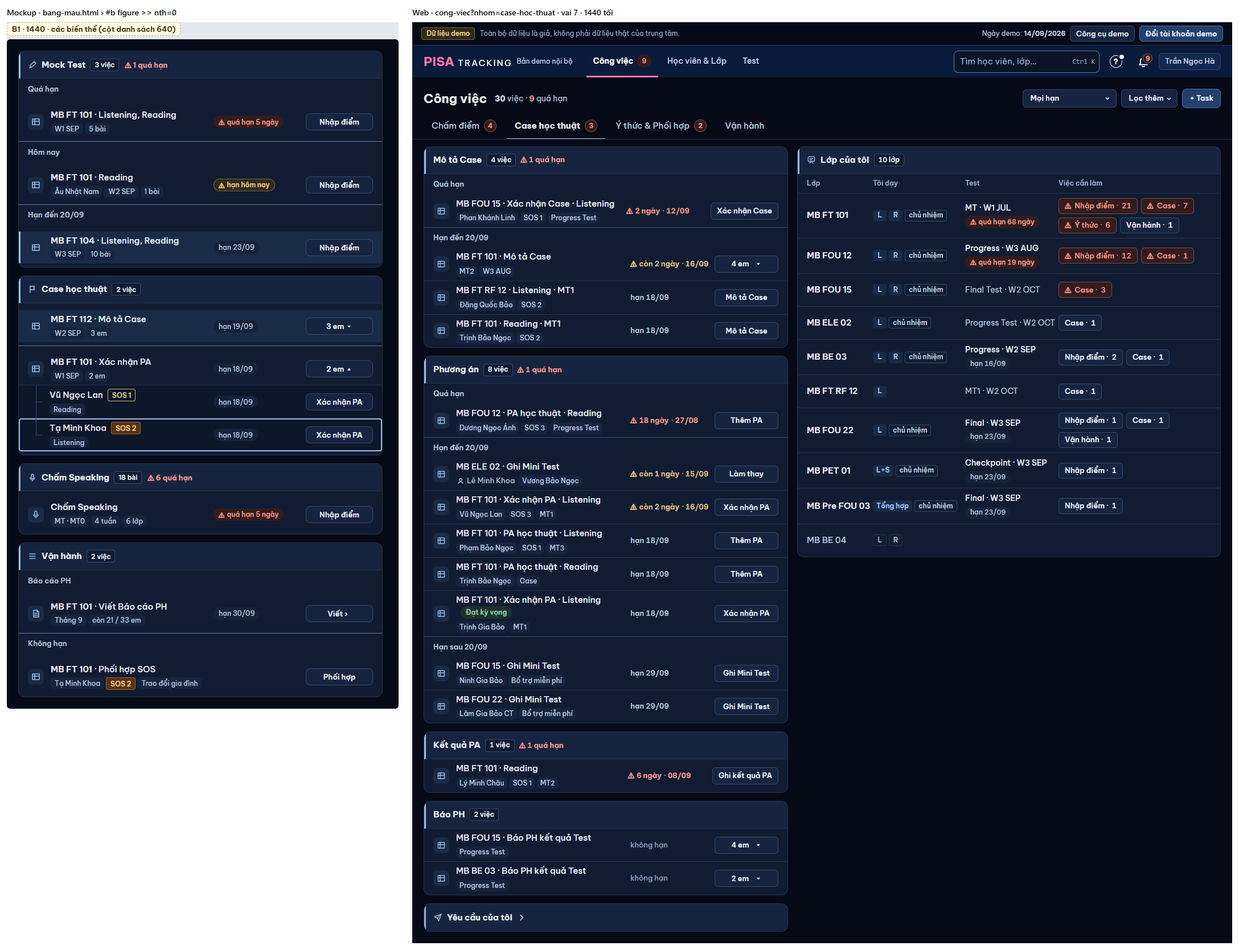
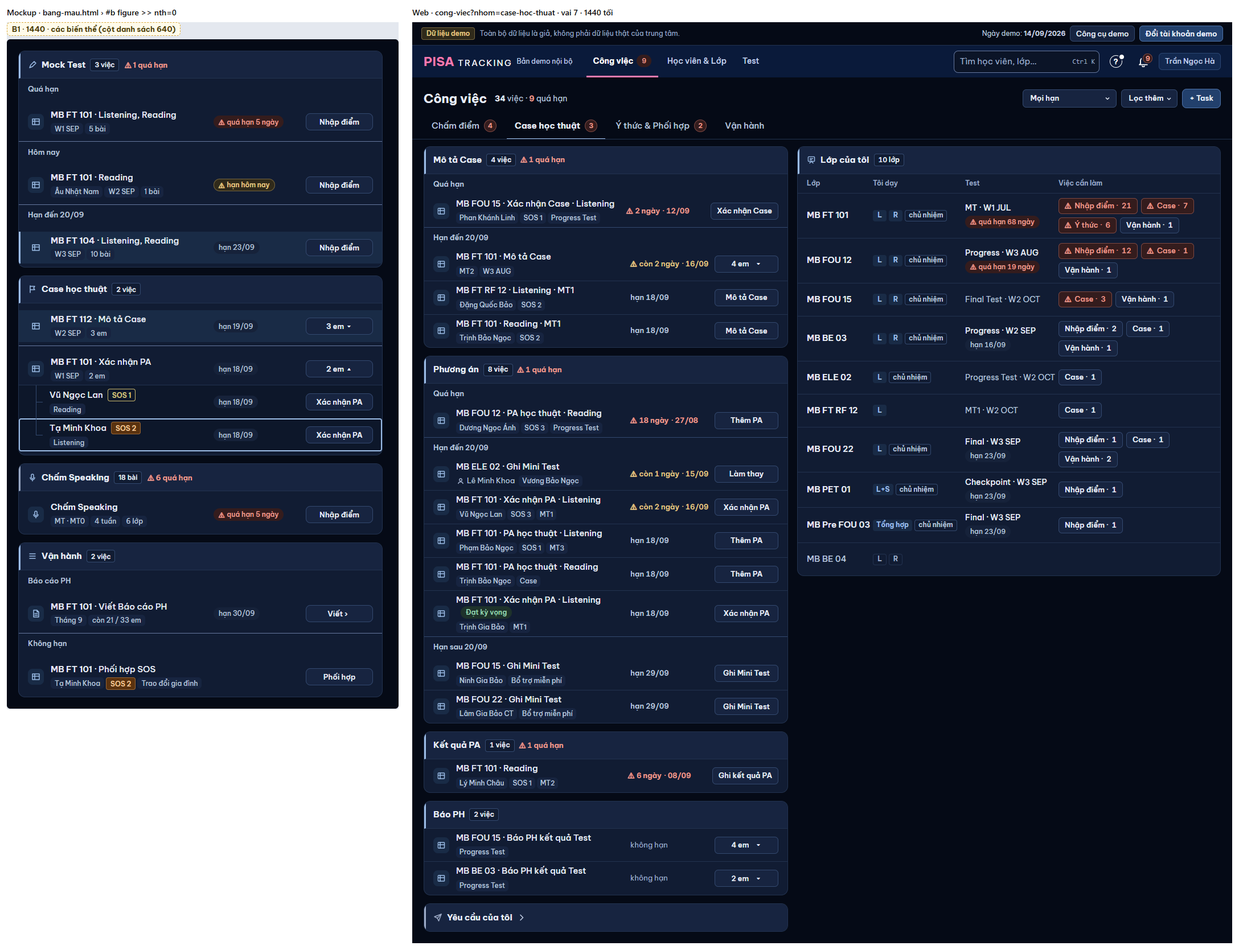
GD-4a: menu + Task có biểu tượng + neo đáy 375, chọn em nhóm theo lớp + tô khớp; khop-khac đủ a/b/d/f; ảnh cặp chụp lại

Changed region(s): [[0.625, 0.2493, 1.0, 0.6231]]

diff --git a/web/src/modules/congViec/NutTask.tsx b/web/src/modules/congViec/NutTask.tsx
@@ -7,12 +7,17 @@ import { useNgayNghiepVu } from '../../ui/ngayNghiepVu.ts';
 import { QuickReport } from '../cases/QuickReport.tsx';
 import { RecordViolationPanel } from '../yThuc/RecordViolationPanel.tsx';
 import { HopTinhHinh } from '../yThuc/TinhHinh.tsx';
+import { ToKhop } from '../../ui/ToKhop.tsx';
+import { IconNhom } from './DanhSachViec.tsx';
 import { t } from '@shared/i18n/index.ts';
 
-type Em = { id: number; ten: string; lopId: number; lop: string; tvv: string | null };
+export type EmTask = { id: number; ten: string; lopId: number; lop: string; tvv: string | null };
+type Em = EmTask;
 type Loai = 'case' | 'vi-pham' | 'tinh-hinh';
 /** Chủ SP 14/11 (lời 17): tên nút "+ Task", thứ tự Case · Vi phạm / Nhắc nhở · Tình hình học tập. */
 const MUC: [Loai, string][] = [['case', t('Case')], ['vi-pham', t('Vi phạm / Nhắc nhở')], ['tinh-hinh', t('Tình hình học tập')]];
+/** GD-4a (mockup ⑤ F1, [XM-7]): menu giữ biểu tượng mục — cờ Case · khiên Ý thức · bóng lời Tình hình. */
+const IC: Record<Loai, string> = { case: 'case-hoc-thuat', 'vi-pham': 'y-thuc', 'tinh-hinh': 'tinh-hinh' };
 const TOI_DA_TINH_HINH = 8;
 
 /**
@@ -20,8 +25,10 @@ const TOI_DA_TINH_HINH = 8;
  * lớp bên cạnh tên; Tình hình học tập chọn nhiều ≤ 8) → ĐÚNG form đang có (QuickReport · RecordViolationPanel · hộp Báo tình hình) — cùng quyền, cùng luật.
  * Tìm em: `/tim/hoc-vien` (một câu mỗi lần gõ, ≥ 2 ký tự, chờ 250 ms). Nút cũ ở hồ sơ lớp / HV giữ nguyên.
  * `noi`: nút ở đầu trang (máy rộng) hoặc nút tròn nổi trên thanh tab dưới (< 640 px, K8a).
+ * GD-4a (mockup ⑤ F): MỘT nút cho trang đầu, hồ sơ lớp, hồ sơ HV — `lopId`: mở từ hồ sơ lớp, nhóm "Lớp này" lên đầu; `em`: hồ sơ HV điền sẵn em → bỏ bước chọn.
+ * < 640 px menu neo đáy (F4).
  */
-export function NutTask({ noi }: { noi: 'dau' | 'noi' }) {
+export function NutTask({ noi, lopId, em: emSan }: { noi: 'dau' | 'noi'; lopId?: number; em?: EmTask }) {
   const neo = useRef<HTMLSpanElement>(null);
   const [loai, setLoai] = useState<Loai | null>(null);
   const [em, setEm] = useState<Em[] | null>(null);
@@ -34,11 +41,11 @@ export function NutTask({ noi }: { noi: 'dau' | 'noi' }) {
   return (
     <>
       <span ref={neo} className={noi === 'noi' ? 'fixed bottom-[80px] right-4 z-[35] sm:hidden' : 'max-sm:hidden'}>
-        <MenuDong nhan={t('Task: Case, vi phạm / nhắc nhở, tình hình học tập')} mat={mat}
+        <MenuDong nhan={t('Task: Case, vi phạm / nhắc nhở, tình hình học tập')} mat={mat} tieuDeDay={t('+ Task')}
           lopNut={noi === 'dau' ? 'btn btn-primary !p-0' : 'btn btn-primary !rounded-full !p-0 shadow-lg'}
-          muc={MUC.map(([k, nhan]) => ({ key: k, nhan, onChon: () => { setEm(null); setLoai(k); } }))} />
+          muc={MUC.map(([k, nhan]) => ({ key: k, nhan, bieuTuong: <IconNhom k={IC[k]} />, onChon: () => { setEm(emSan ? [emSan] : null); setLoai(k); } }))} />
       </span>
-      {loai && !em && <HopChonEm neo={neo} loai={loai} onDong={dong} onChon={setEm} />}
+      {loai && !em && <HopChonEm neo={neo} loai={loai} lopId={lopId} onDong={dong} onChon={setEm} />}
       {loai === 'case' && em?.[0] && <QuickReport open onClose={dong} studentId={em[0].id} studentName={em[0].ten} lop={em[0].lop} onDone={xong} />}
       {loai === 'vi-pham' && em?.[0] && <RecordViolationPanel open onClose={dong} studentId={em[0].id} studentName={em[0].ten} lop={em[0].lop} onDone={xong} />}
       {loai === 'tinh-hinh' && em?.length && (
@@ -48,11 +55,17 @@ export function NutTask({ noi }: { noi: 'dau' | 'noi' }) {
   );
 }
 
-function HopChonEm({ neo, loai, onDong, onChon }: {
-  neo: React.RefObject<HTMLElement | null>; loai: Loai; onDong: () => void; onChon: (em: Em[]) => void;
+/**
+ * GD-4a (mockup ⑤ F2, F3): kết quả nhóm theo lớp, có nhãn + số — "Lớp này" (mở từ hồ sơ lớp) → từng lớp của tôi ("· chủ nhiệm") → "Lớp khác"; tô chữ khớp.
+ * ponytail: ô tìm riêng của "+ Task" — GD-5 thay bằng ô chọn có tìm chung (mẫu ⑤ A) khi nâng `ChonNguoi`.
+ */
+function HopChonEm({ neo, loai, lopId, onDong, onChon }: {
+  neo: React.RefObject<HTMLElement | null>; loai: Loai; lopId?: number; onDong: () => void; onChon: (em: Em[]) => void;
 }) {
   const { session } = useSession();
-  const lopToi = new Set((session?.assignments ?? []).map((a) => a.classId));
+  const pc = session?.assignments ?? [];
+  const lopToi = new Set(pc.map((a) => a.classId));
+  const chuNhiem = new Set(pc.filter((a) => a.isCore).map((a) => a.classId));
   const nhieu = loai === 'tinh-hinh';
   const [chu, setChu] = useState('');
   const [kq, setKq] = useState<Em[]>([]);
@@ -75,7 +88,13 @@ function HopChonEm({ neo, loai, onDong, onChon }: {
     }, 250);
     return () => clearTimeout(h);
   }, [chu]);   // eslint-disable-line react-hooks/exhaustive-deps
-  const ds = kq.filter((e) => !chon.some((c) => c.id === e.id));
+  const conLai = kq.filter((e) => !chon.some((c) => c.id === e.id));
+  /* Thứ tự nhóm: lớp này → lớp của tôi (theo mã) → lớp khác; `ds` phẳng theo đúng thứ tự vẽ để ↑ ↓ đi khớp. */
+  const hang = (e: Em) => (e.lopId === lopId ? 0 : lopToi.has(e.lopId) ? 1 : 2);
+  const ds = [...conLai].sort((a, b) => hang(a) - hang(b) || (hang(a) === 1 ? a.lop.localeCompare(b.lop) : 0));
+  const tenNhom = (e: Em) => (hang(e) === 0 ? `${t('Lớp này')} · ${e.lop}` : hang(e) === 1 ? (chuNhiem.has(e.lopId) ? `${e.lop} · ${t('chủ nhiệm')}` : e.lop) : t('Lớp khác'));
+  const nhom = new Map<string, number>();
+  for (const e of ds) nhom.set(tenNhom(e), (nhom.get(tenNhom(e)) ?? 0) + 1);
   const lay = (e: Em) => {
     if (!nhieu) { onChon([e]); return; }
     if (chon.length < TOI_DA_TINH_HINH) setChon((c) => [...c, e]);
@@ -109,13 +128,20 @@ function HopChonEm({ neo, loai, onDong, onChon }: {
         }} />
       {ds.length > 0 && (
         <ul id="tim-em-task" role="listbox" aria-label={t('Học viên')} className="m-0 grid max-h-[288px] list-none overflow-y-auto p-0">
-          {ds.map((e, i) => (
+          {ds.map((e, i) => [
+            (i === 0 || tenNhom(ds[i - 1]) !== tenNhom(e)) && (
+              <li key={`n:${tenNhom(e)}`} role="presentation" className="sticky top-0 flex items-baseline gap-2 bg-[color:var(--surface)] px-2.5 pb-0.5 pt-2 text-xs font-semibold text-faint">
+                {tenNhom(e)} <span className="font-medium tabular-nums">{nhom.get(tenNhom(e))}</span>
+              </li>
+            ),
             <li key={e.id} id={`tim-em-${e.id}`} role="option" aria-selected={i === dang}
-              className={`flex min-h-[40px] cursor-pointer items-center justify-between gap-3 rounded-md px-2.5 text-[15px] max-sm:min-h-[44px] ${i === dang ? 'bg-[color:var(--accent-soft)]' : ''}`}
+              className={`grid min-h-11 cursor-pointer content-center rounded-md px-2.5 py-1 ${i === dang ? 'bg-[color:var(--accent-soft)]' : ''}`}
               onMouseEnter={() => setDang(i)} onMouseDown={(ev) => ev.preventDefault()} onClick={() => lay(e)}>
-              <span className="min-w-0 text-[color:var(--text)]">{e.ten}</span><small className="shrink-0 text-xs text-faint">{e.lop}</small>
-            </li>
-          ))}
+              {/* Mockup ⑤ `.oc-muc`: tên 14 / 500 (chữ khớp đậm màu nhấn), lớp dòng phụ 12 mờ. */}
+              <span className="min-w-0 truncate text-sm font-medium leading-snug text-[color:var(--text)] [&_mark]:rounded-none [&_mark]:bg-transparent [&_mark]:p-0 [&_mark]:font-bold [&_mark]:text-[color:var(--accent)]"><ToKhop chu={e.ten} q={chu} /></span>
+              <small className="text-xs text-faint">{e.lop}</small>
+            </li>,
+          ])}
         </ul>
       )}
       {chu.trim().length >= 2 && !ds.length && !loi && <p role="status" className="m-0 text-[13px] text-dim">{t('Không thấy em nào khớp.')}</p>}

diff --git a/web/src/ui/MenuDong.tsx b/web/src/ui/MenuDong.tsx
@@ -26,6 +26,8 @@ export type MucMenu = {
   tieuDe?: boolean;
   /** Ô tick (☑ / ☐): bấm là đổi, menu GIỮ MỞ để tick tiếp (PR-HK2: "Cột hiện" của Tổng hợp). */
   chon?: boolean;
+  /** GD-4a (mockup ⑤ F1, [XM-7]): biểu tượng 16 px màu nhấn trước chữ (menu "+ Task") — nút-chip thì không có biểu tượng (lời 20). */
+  bieuTuong?: ReactNode;
 };
 
 /**
@@ -39,7 +41,7 @@ export type MucMenu = {
  * Bàn phím (E2): mở → focus mục đầu; ↑/↓/Home/End đi vòng; Enter chọn; Esc/Tab đóng và trả focus về nút ⋯. Esc chỉ đóng menu,
  * không đóng panel chứa nó (pha bắt + chặn lan, như `LichNho`).
  */
-export function MenuDong({ muc, nhan = t('Thao tác khác'), bieuTuong = '⋯', luonHien = false, kieu, mat, lopNut, canhTrai = false }: {
+export function MenuDong({ muc, nhan = t('Thao tác khác'), bieuTuong = '⋯', luonHien = false, kieu, mat, lopNut, canhTrai = false, tieuDeDay }: {
   /** `bieuTuong`: ⋯ · ⋮, hoặc chữ ngắn như "+2" (badge còn ẩn của hộp lớp — PR-HVL B4). `luonHien`: vẽ nút kể cả khi không có mục / mọi mục `tat`. */
   muc: MucMenu[]; nhan?: string; bieuTuong?: string; luonHien?: boolean;
   /** `chip`: mặt nút là chip họ tròn xám ("+2" cạnh các badge lớp, PR-HK2) thay cho ô vuông viền. */
@@ -48,11 +50,13 @@ export function MenuDong({ muc, nhan = t('Thao tác khác'), bieuTuong = '⋯', 
   mat?: ReactNode; lopNut?: string;
   /** GD-3 (mockup v21 K2b): nút ⋯ ở mép TRÁI hàng nút — menu canh mép trái nút, không chìa ra ngoài hộp. */
   canhTrai?: boolean;
+  /** GD-4a (mockup ⑤ F4): < 640 px menu NEO ĐÁY màn (tấm dưới có tiêu đề này, nền mờ phía sau, mục cao 48) thay vì thả cạnh nút. */
+  tieuDeDay?: string;
 }) {
   const [mo, setMo] = useState(false);
   const nut = useRef<HTMLButtonElement>(null);
   const hop = useRef<HTMLDivElement>(null);
-  const [viTri, setViTri] = useState<{ top: number; left: number; cao: number } | null>(null);
+  const [viTri, setViTri] = useState<{ top: number; left: number; cao: number; day?: boolean } | null>(null);
   const [dang, setDang] = useState(0);
   const mucDom = () => [...(hop.current?.querySelectorAll<HTMLElement>('[role^="menuitem"]') ?? [])];
   const bam = muc.filter((m) => !m.tieuDe);   // vòng ↑/↓ chỉ qua mục bấm được; `chiSo` = vị trí trong vòng đó
@@ -62,6 +66,7 @@ export function MenuDong({ muc, nhan = t('Thao tác khác'), bieuTuong = '⋯', 
 
   useLayoutEffect(() => {
     if (!mo || !nut.current) { setViTri(null); return; }
+    if (tieuDeDay && window.innerWidth < 640) { setViTri({ top: 0, left: 0, cao: window.innerHeight - 80, day: true }); return; }
     const r = nut.current.getBoundingClientRect();
     const rong = 216;
     /* Mục cao 44px trên điện thoại (ô bấm), ~36px từ sm. */
@@ -116,15 +121,20 @@ export function MenuDong({ muc, nhan = t('Thao tác khác'), bieuTuong = '⋯', 
         style={kieu === 'chip' || lopNut ? undefined : { borderColor: 'var(--line)' }}>
         {mat ?? bieuTuong}
       </button>
-      {mo && createPortal(
+      {mo && createPortal(<>
+        {viTri?.day && <div aria-hidden className="fixed inset-0 z-[59] bg-black/50" />}
         <div ref={hop} role="menu" aria-label={nhan}
           onKeyDown={(e) => {
             const k = buocDanhSach(bam.length, dang, e.key);
             if (k !== null) { e.preventDefault(); tro(k); }
             else if (e.key === 'Tab') { e.preventDefault(); dongVeNut(); }
           }}
-          className="menu-hop fixed z-[60] w-[216px] overflow-y-auto overscroll-contain rounded-lg border p-1 shadow-xl surface-2"
-          style={{ borderColor: 'var(--line-strong)', top: viTri?.top ?? 0, left: viTri?.left ?? 0, maxHeight: viTri?.cao, visibility: viTri ? 'visible' : 'hidden' }}>
+          className={viTri?.day
+            ? 'menu-hop fixed inset-x-0 bottom-0 z-[60] overflow-y-auto overscroll-contain rounded-t-[14px] border-t px-2 pb-[18px] pt-2 shadow-xl [&_.menu-muc]:min-h-12'
+            : 'menu-hop fixed z-[60] w-[216px] overflow-y-auto overscroll-contain rounded-lg border p-1 shadow-xl surface-2'}
+          style={viTri?.day ? { borderColor: 'var(--line-strong)', maxHeight: viTri.cao }
+            : { borderColor: 'var(--line-strong)', top: viTri?.top ?? 0, left: viTri?.left ?? 0, maxHeight: viTri?.cao, visibility: viTri ? 'visible' : 'hidden' }}>
+          {viTri?.day && <div role="presentation" className="px-3 pb-1.5 pt-2 text-[15px] font-bold">{tieuDeDay}</div>}
           {muc.map((m, i) => m.tieuDe ? (
             <div key={m.key} role="presentation" className="menu-nhom">{m.nhan}</div>
           ) : (
@@ -135,11 +145,12 @@ export function MenuDong({ muc, nhan = t('Thao tác khác'), bieuTuong = '⋯', 
               className={`menu-muc ${m.tat ? 'text-slate-500 cursor-not-allowed' : `${m.nguyHiem ? 'text-rose-200' : 'text-slate-200'} bam`} ${
                 i === 0 || muc[i - 1]?.tieuDe ? '' : m.nguyHiem && !muc[i - 1]?.nguyHiem ? 'menu-muc-nguy' : m.keTruoc ? 'menu-muc-ke' : ''}`}
               onClick={(e) => { if (m.tat) { e.stopPropagation(); return; } if (m.chon === undefined) dongVeNut(); m.onChon(); }}>
-              {m.chon !== undefined && <span aria-hidden>{m.chon ? '☑' : '☐'} </span>}{m.nhan}
+              {m.chon !== undefined && <span aria-hidden>{m.chon ? '☑' : '☐'} </span>}
+              {m.bieuTuong ? <span className="flex items-center gap-2.5"><span aria-hidden className="text-[color:var(--accent)]">{m.bieuTuong}</span>{m.nhan}</span> : m.nhan}
             </button>
           ))}
-        </div>,
-        document.body,
+        </div>
+      </>, document.body,
       )}
     </>
   );

diff --git a/shared/huongDan/gv.ts b/shared/huongDan/gv.ts
@@ -255,7 +255,7 @@ export const HD_GV: HuongDan = {
           chi: { hd: 'cv-loc-them', duong: CV, chu: 'Lọc việc ở hàng này.' } },
         { id: 'cv-lop', ten: 'Lớp của tôi', buoc: ['Khung phải khi chưa chọn việc (điện thoại: nút <b>Lớp của tôi</b>): mỗi lớp một dòng — bạn dạy gì, Test, <b>Việc cần làm</b>.', 'Bấm một nút việc (Nhập điểm, Case, Ý thức, Vận hành) mở đúng việc đó; bấm tên lớp mở hồ sơ lớp.'],
           chi: { hd: 'cv-lop-cua-toi', duong: CV, chu: 'Bấm nút việc của một lớp để làm ngay.' } },
-        { id: 'cv-task', ten: '+ Task', buoc: ['Nút <b>+ Task</b> đầu trang: <b>Case</b> · <b>Vi phạm / Nhắc nhở</b> · <b>Tình hình học tập</b>.', 'Gõ tên em (em lớp của bạn lên trước), rồi điền form như ở hồ sơ lớp.'] },
+        { id: 'cv-task', ten: '+ Task', buoc: ['Nút <b>+ Task</b> đầu trang: <b>Case</b> · <b>Vi phạm / Nhắc nhở</b> · <b>Tình hình học tập</b>.', 'Gõ tên em: kết quả nhóm theo từng lớp của bạn (lớp chủ nhiệm ghi rõ), rồi điền form như ở hồ sơ lớp. Trên điện thoại: nút tròn <b>+ Task</b>, menu mở ở đáy màn.'] },
       ],
     },
     {

diff --git a/shared/i18n/en/gd1.ts b/shared/i18n/en/gd1.ts
@@ -20,5 +20,5 @@ export const EN_GD1 = {
   'Bấm nút việc của một lớp để làm ngay.': 'Tap a class task button to do it now.',
   'Nút <b>+ Task</b> đầu trang: <b>Case</b> · <b>Vi phạm / Nhắc nhở</b> · <b>Tình hình học tập</b>.':
     'The <b>+ Task</b> button at the top: <b>Case</b> · <b>Violation / Reminder</b> · <b>Learning update</b>.',
-  'Gõ tên em (em lớp của bạn lên trước), rồi điền form như ở hồ sơ lớp.': 'Type the student name (your classes first), then fill the same form as on the class profile.',
+  'Gõ tên em: kết quả nhóm theo từng lớp của bạn (lớp chủ nhiệm ghi rõ), rồi điền form như ở hồ sơ lớp. Trên điện thoại: nút tròn <b>+ Task</b>, menu mở ở đáy màn.': 'Type the student name: results are grouped by each of your classes (homeroom marked), then fill the same form as on the class profile. On a phone: the round <b>+ Task</b> button, the menu opens at the bottom of the screen.',
 };

diff --git a/web/src/modules/congViec/DanhSachViec.tsx b/web/src/modules/congViec/DanhSachViec.tsx
@@ -55,6 +55,8 @@ const DUONG_IC: Record<string, ReactNode> = {
   'sau-thi': <><rect x="2.5" y="3.5" width="11" height="10" rx="1.5" /><path d="M2.5 6.5h11M5.5 2v3M10.5 2v3" /></>,
   'chot-ngay-thi': <><rect x="2.5" y="3.5" width="11" height="10" rx="1.5" /><path d="M2.5 6.5h11M5.5 2v3M10.5 2v3" /></>,
   'bo-sung': <><path d="M4 2.5h5l3 3v8H4z" /><path d="M9 2.5v3h3" /></>,
+  /* GD-4a (mockup ⑤ F1 `i-bao`): Tình hình học tập — bóng lời. */
+  'tinh-hinh': <path d="M2.5 3.5h11v7h-6l-3 2.5v-2.5h-2z" />,
   duyet: <><circle cx="8" cy="8" r="5.5" /><path d="M5.6 8.2l1.7 1.7 3.2-3.4" /></>,
   /* BO-QUA-XEP-MT: "Đã bỏ qua" — mắt gạch. */
   'bo-qua': <><path d="M2 8s2.2-4 6-4 6 4 6 4-2.2 4-6 4-6-4-6-4z" /><circle cx="8" cy="8" r="1.8" /><path d="M3 13L13 3" /></>,

diff --git a/docs/anh/gd4a-thanh-phan/khop-khac.md b/docs/anh/gd4a-thanh-phan/khop-khac.md
@@ -1,43 +1,72 @@
-# GD-4a — Thành phần chung (phần 1): dòng việc ô vuông + vạch hạn · nút "Không cần theo dõi" / "Xác nhận xử lý" · thang WL nổi
+# GD-4a — Thành phần chung: dòng việc (ô vuông + vạch hạn) · nút-chip · menu "+ Task" + chọn em · nút Ý thức · thang WL nổi
 
-Plan: `docs/superpowers/specs/2026-11-13-overhaul-v6/09-plan-giao-dien-dot-2.md` dòng GD-4 (a), (b), (f). Mockup ⑤ `thiet-ke/v21/bang-mau.html` khu B, C (đã duyệt, lời 27) · mockup ③ `ho-so-hv.html` K4a (thang, nút — lời 28).
-PTA Plan đồng ý / chờ đồng ý chia GD-4: **4a** (PR này) · **4b** 83 câu dòng quy chế (sau GD-3 #1563) · **4c** H1–H4 một dáng tab / menu / dải chỉ số / lịch sử. (d) bước chọn em = ô chọn có tìm thuộc GD-5.
+Plan: `docs/superpowers/specs/2026-11-13-overhaul-v6/09-plan-giao-dien-dot-2.md` dòng GD-4, ý **(a) (b) (d) (f)**. Ý (c) 83 câu dòng quy chế = GD-4b; ý (e) một dáng tab / menu / dải / lịch sử = GD-4c.
+Mockup ⑤ `thiet-ke/v21/bang-mau.html` khu B, C, F (lời 27 duyệt) · mockup ③ `ho-so-hv.html` K4a (lời 28). Thứ tự thắng: lời 24, 28 → `04-thiet-ke.md` 12–14 → ⑤ → ③.
 
-Ảnh cặp (trái mockup · phải web, demo 14/09, GVCN Trần Ngọc Hà — vai 7):
-`cap-1440-case.png` (⑤ B1 ↔ Công việc › Case học thuật) · `cap-1440-y-thuc-hv.png` (③ K4a ↔ hồ sơ HV Vũ Hải Đăng › Ý thức, thang mở).
+Ảnh cặp (trái mockup · phải web; seed demo 14/09, vai 7 GVCN; 1440 tối, 375 sáng; phông Be Vietnam Pro đã nạp — `document.fonts.check` = true):
+
+| Ảnh | Mockup | Web |
+|---|---|---|
+| `cap-1440-case.png` | ⑤ B1 | Công việc › Case học thuật |
+| `cap-375-cong-viec.png` | ⑤ B2 | Công việc 375 |
+| `cap-1440-task-menu.png` | ⑤ F1 | Công việc, menu "+ Task" mở |
+| `cap-1440-task-chon-em.png` | ⑤ F2 | "+ Task" › Vi phạm / Nhắc nhở, gõ "tran" |
+| `cap-375-task-menu.png` | ⑤ F4 | Công việc 375, nút tròn "+ Task" → menu neo đáy |
+| `cap-1440-y-thuc-hv.png` | ③ K4a | hồ sơ HV › Ý thức & Phối hợp, "Thang" mở |
+
+Chụp bằng `scripts/anh-cap.mjs` (PR này thêm: `BAM` bấm được mục menu và `gõ:chữ`; `KEO_TRUOC=1` kéo dài khung nhìn trước khi bấm — menu thả đóng khi đổi cỡ màn).
 
 ## 1. Truy vết khung → thành phần → ảnh
 
 | # | Khung | Thành phần web | Ảnh | Kết quả |
 |---|---|---|---|---|
-| 1 | ⑤ B1 ô vuông 28 px biểu tượng đầu mọi dòng việc (`.av.vuong`) | `AvViec` trong `DongViec` · `DongLop` · `DongGon` (em trong khay không có — như mockup) | cap-1440-case | KHỚP |
-| 2 | ⑤ B1 biểu tượng theo loại: lớp / gộp = ô bảng · Chấm Speaking = micro · Báo cáo PH = tờ giấy | `icDong()` | cap-1440-case | KHỚP |
-| 3 | ⑤ B1 vạch hạn trong mục: Quá hạn · Hôm nay · Hạn đến {CN} · Hạn sau {CN} · Không hạn | `DanhSachViec` — vạch chỉ khi mục có ≥ 2 nhóm hạn | cap-1440-case (Mô tả Case, Phương án) | KHỚP |
-| 4 | ⑤ B1 dòng "Lớp · tên việc", tên em thẻ phụ | đã có (#1584) | cap-1440-case | KHỚP |
-| 5 | ⑤ C nút-chip "Việc cần làm" không biểu tượng | đã có (#1566) | — | KHỚP |
-| 6 | Lời 28 ý 1: "Không cần theo dõi" là NÚT mờ | `NUT_MO` (`ui/KhuonViec.tsx`) ở `CasePanel` + `CaseSosControls` (form Xác nhận PA) | — (seed GV 7 không có Case SOS đang chờ — kiểm mã) | KHỚP (mã) |
-| 7 | Lời 28 ý 2: "Xác nhận xử lý" là NÚT | hồ sơ HV (`StudentYThucSection` ô bước + dòng vi phạm) · tab Ý thức lớp (`ClassYThucCard` ô bước + dòng) · panel Xem vi phạm (`PanelXemViPham` chân) | cap-1440-y-thuc-hv | KHỚP |
-| 8 | Lời 28 ý 3 / ③ `.vach-bac b.wl`: WL 1, WL 2 nhãn đỏ nổi trên thanh (đã tới: đỏ đặc) | thang mini hồ sơ HV (`StudentYThucSection`) | cap-1440-y-thuc-hv | KHỚP |
-| 9 | "mọi nơi hiện thang" | thang đầy đủ `ThangYThuc` (hồ sơ HV "Thang ▾", chip mốc tab lớp, panel Xử lý) — chip WL đỏ | cap-1440-y-thuc-hv (thang mở) | KHỚP |
+| 1 | ⑤ B1/B2 ô vuông 28 px biểu tượng đầu mọi dòng việc (`.av.vuong`) | `AvViec` trong `DongViec` · `DongLop` · `DongGon` (em trong khay "n em ▾" không có — như mockup) | case, 375-cong-viec | KHỚP |
+| 2 | ⑤ B1 biểu tượng theo loại: lớp / gộp / một em = ô bảng · Chấm Speaking = micro · Báo cáo PH = tờ giấy | `icDong()` | case | KHỚP |
+| 3 | ⑤ B1/B2 vạch hạn trong mục: Quá hạn · Hôm nay · Hạn đến {CN} · Hạn sau {CN} · Không hạn | `DanhSachViec` — vạch khi mục có ≥ 2 nhóm hạn | case (Mô tả Case, Phương án), 375-cong-viec | KHỚP |
+| 4 | ⑤ B1 (a) dòng "Lớp · tên việc", tên em là thẻ phụ — lời 24 | đã có (#1584), giữ một thành phần | case | KHỚP |
+| 5 | ⑤ C (b) nút-chip "Việc cần làm" không biểu tượng, thứ tự Nhập điểm · Case · Ý thức · Vận hành | đã có (#1566) `LopCuaToi` | task-menu (cột phải) | KHỚP |
+| 6 | ⑤ F1 (d) menu "+ Task" 3 mục Case · Vi phạm / Nhắc nhở · Tình hình học tập, có biểu tượng ([XM-7]) | `MenuDong` thêm `bieuTuong` mỗi mục; `NutTask` (cờ · khiên · bóng lời) | task-menu | KHỚP |
+| 7 | ⑤ F2 (d) chọn em: nhóm theo lớp có nhãn + số ("· chủ nhiệm"), tô chữ khớp, tên + lớp dòng phụ | `HopChonEm` (`NutTask.tsx`) nhóm Lớp này → lớp của tôi → Lớp khác; `ToKhop` | task-chon-em | KHỚP |
+| 8 | ⑤ F3 (d) Tình hình chọn nhiều ≤ 8, chip ✕, "n / 8", Tiếp | đã có (GD-1) — giữ | — (đã chụp ở GD-1) | KHỚP |
+| 9 | ⑤ F4 (d) 375 nút tròn → menu neo đáy, tiêu đề "+ Task", mục cao 48, nền mờ | `MenuDong` thêm `tieuDeDay` (< 640 px) | 375-task-menu | KHỚP |
+| 10 | ⑤ F mục 2 (d) mở từ hồ sơ lớp: nhóm "Lớp này" lên đầu · hồ sơ HV: em điền sẵn, bỏ bước chọn | `NutTask` nhận `lopId`, `em` — đặt nút ở hai hồ sơ là GD-6 / GD-7 (một màn một PR) | — | KHỚP (mã) |
+| 11 | Lời 28 ý 1 (f): "Không cần theo dõi" là NÚT mờ | `NUT_MO` (`ui/KhuonViec.tsx`) ở `CasePanel` + form Xác nhận PA (`CaseSosControls`) | — (seed vai 7 không có Case SOS chờ — kiểm mã) | KHỚP (mã) |
+| 12 | Lời 28 ý 2 (f): "Xác nhận xử lý" là NÚT | hồ sơ HV (ô bước + dòng vi phạm) · tab Ý thức lớp (ô bước + dòng) · panel Xem vi phạm (chân) | y-thuc-hv | KHỚP |
+| 13 | Lời 28 ý 3 / ③ `.vach-bac b.wl` (f): WL 1, WL 2 nhãn đỏ nổi trên thanh (đã tới: đỏ đặc) | thang mini hồ sơ HV (`StudentYThucSection`) | y-thuc-hv | KHỚP |
+| 14 | (f) "mọi nơi hiện thang" | thang đầy đủ `ThangYThuc` (hồ sơ HV "Thang ▾", chip mốc tab lớp, panel Xử lý) — chip WL đỏ | y-thuc-hv | KHỚP |
+| 15 | ⑤ B tên khung: dòng chuẩn ở "dải Việc cần làm hồ sơ lớp, thanh việc hồ sơ HV" | GIỮ ô việc hiện tại ở hai hồ sơ — đổi sang dòng chuẩn ở GD-6 / GD-7 (plan ghi rõ "dùng dòng việc chuẩn" trong dòng GD-7; một màn một PR) | — | GIỮ (chuyển GD-6/7) |
+| 16 | Chuông (a "một thành phần cho … chuông") | GIỮ dáng chuông v2 — [XM-1] ⑤ đã chốt: không dùng dòng việc chuẩn; đổi đích bấm ở GD-9 | — | GIỮ (theo [XM-1]) |
 
-**KHỚP 9 / 9 = 100 %** cho phạm vi 4a.
+**KHỚP 14 / 14 dòng thuộc PR = 100 %** (dòng 15, 16 là GIỮ có lý do, không tính).
 
 ## 2. KHÁC (có lý do)
-- **KHÁC-1** Cột hạn của việc không hạn ghi chữ mờ "không hạn" (web đang có); mockup ⑤ để trống cột khi đã có vạch "Không hạn". Giữ chữ: mục chỉ có việc không hạn thì không có vạch (một nhóm), cột trống sẽ mất thông tin.
-- **KHÁC-2** Thang mini hồ sơ HV giữ 6 bậc mạch chính (Report 1 … WL 2) như web; mockup ③ vẽ 7 (thêm Report 7). Bậc sau WL 2 tăng mãi — thang đầy đủ ở "Thang ▾".
-- **KHÁC-3** Menu "+ Task" chưa có biểu tượng mục ([XM-7] ⑤ — đề xuất, không bắt buộc); `MenuDong` chưa có trường biểu tượng — để 4c (một dáng menu).
+- **KHÁC-1** Cột hạn của việc không hạn ghi chữ mờ "không hạn"; mockup ⑤ để trống khi đã có vạch "Không hạn". Giữ chữ: mục chỉ có việc không hạn thì không có vạch (một nhóm) → cột trống mất thông tin (thấy ở mục "Báo PH", ảnh case).
+- **KHÁC-2** Thang mini hồ sơ HV giữ 6 bậc mạch chính (Report 1 … WL 2); mockup ③ vẽ 7. Bậc sau WL 2 tăng mãi — thang đầy đủ ở "Thang ▾".
+- **KHÁC-3** Đầu mục trong tab Công việc (Mô tả Case, Phương án…) không có biểu tượng như dải hạng mục ⑤ B1 (Mock Test, Case học thuật…): ⑤ B1 vẽ dải theo HẠNG MỤC, web đã tách hạng mục thành tab (biểu tượng ở tab không cần) — mục trong tab là nhóm con.
+- **KHÁC-4** Ô gõ trong hộp chọn em chưa có kính lúp + ✕ của ô chọn có tìm (⑤ A): ô chọn chung là GD-5 (thay cả hộp này — ghi `ponytail:` ở `HopChonEm`).
+- **KHÁC-5** Mockup F4 chỉ vẽ tối; web 375 chụp sáng (luật ảnh cặp). Cùng bố cục.
 
 ## 3. Thao tác TRƯỚC → SAU
 
 | Thao tác | Trước | Sau | |
 |---|---|---|---|
+| "+ Task" › chọn mục | menu 3 mục chữ | menu 3 mục có biểu tượng; 375 menu neo đáy | ĐỔI dáng (⑤ F1, F4) |
+| Gõ tên em, ↑ ↓ Enter, chọn | danh sách phẳng, em lớp tôi lên trước | nhóm theo lớp có nhãn + số, tô chữ khớp; ↑ ↓ đi theo thứ tự vẽ | ĐỔI dáng (⑤ F2) |
+| Tình hình: chọn nhiều ≤ 8, ✕ chip, Tiếp | có | có | GIỮ |
 | Không cần theo dõi… (Case SOS, form Xác nhận PA) | chữ link | nút mờ | ĐỔI dáng (lời 28) |
 | Xác nhận xử lý (ô bước, dòng vi phạm, panel Xem vi phạm) | chữ link | nút viền | ĐỔI dáng (lời 28) |
-| Đọc mốc WL trên thang | vạch xám / chip viền như Report | nhãn đỏ WL 1 / WL 2 | ĐỔI dáng (lời 28) |
+| Đọc mốc WL trên thang | vạch / chip như Report | nhãn đỏ WL 1 / WL 2 | ĐỔI dáng (lời 28) |
 | Đọc hạn trong mục việc | cột hạn từng dòng | + vạch nhóm hạn | THÊM |
-| Mọi thao tác dòng việc, thang, panel | có | có | GIỮ |
+| Mọi thao tác dòng việc, "n em ▾", thang, panel, chip Việc cần làm | có | có | GIỮ |
 
 Không thao tác nào bị mất.
 
 ## 4. Turso
-Chỉ đổi hiển thị — 0 câu, 0 request thêm.
+Chỉ đổi hiển thị — 0 câu, 0 request thêm. Hộp chọn em vẫn một câu `/tim/hoc-vien` mỗi lần gõ (≥ 2 ký tự, chờ 250 ms) — nhóm, tô khớp làm ở trình duyệt; "chủ nhiệm" lấy từ phiên đã nạp (`assignments.isCore`).
+
+## 5. [XM]
+Áp theo ghi chú ⑤: [XM-1] chuông giữ v2 · [XM-7] menu giữ biểu tượng.
+- **[XM-A] (hỏi PTA Plan)** ⑤ [XM-3]: GV không có nhóm "Khác" (luat/3 Y-01, Y-17 — GV chỉ ghi / báo cho em lớp mình). Web (từ GD-1) tìm theo phạm vi XEM học viên của máy chủ (`timHocVien`, quyền STUDENT_VIEW), nên GV xem được em lớp khác vẫn thấy các em đó — PR này xếp chúng cuối, nhóm "Lớp khác". Bỏ hẳn nhóm này với GV = đổi phạm vi máy chủ (luật / quyền) → không tự làm ở PR giao diện. Đề xuất: PR logic nhỏ cho `timHocVien` nhận `chiLopToi` khi người gọi không phải QL.
+
+## 6. Hướng dẫn "?"
+`shared/huongDan/gv.ts` mục `cv-task`: câu chọn em đổi theo nhóm lớp + nút tròn / menu đáy ở điện thoại (+ bản EN `shared/i18n/en/gd1.ts`).
